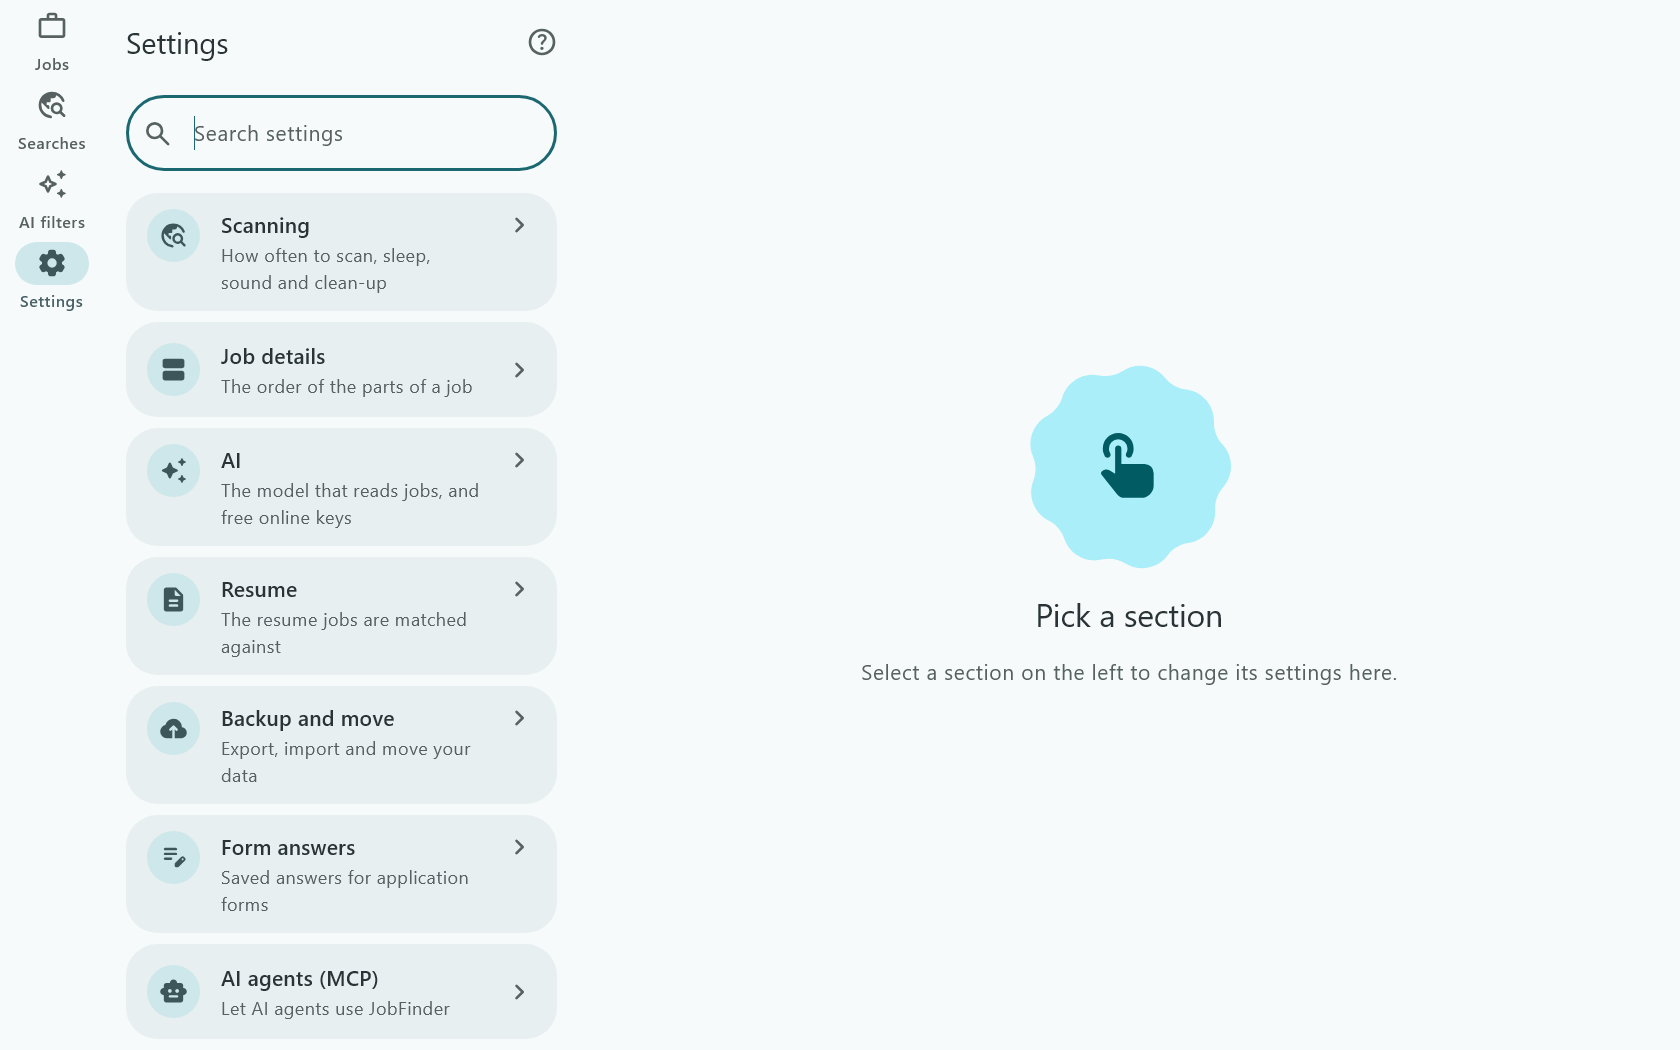
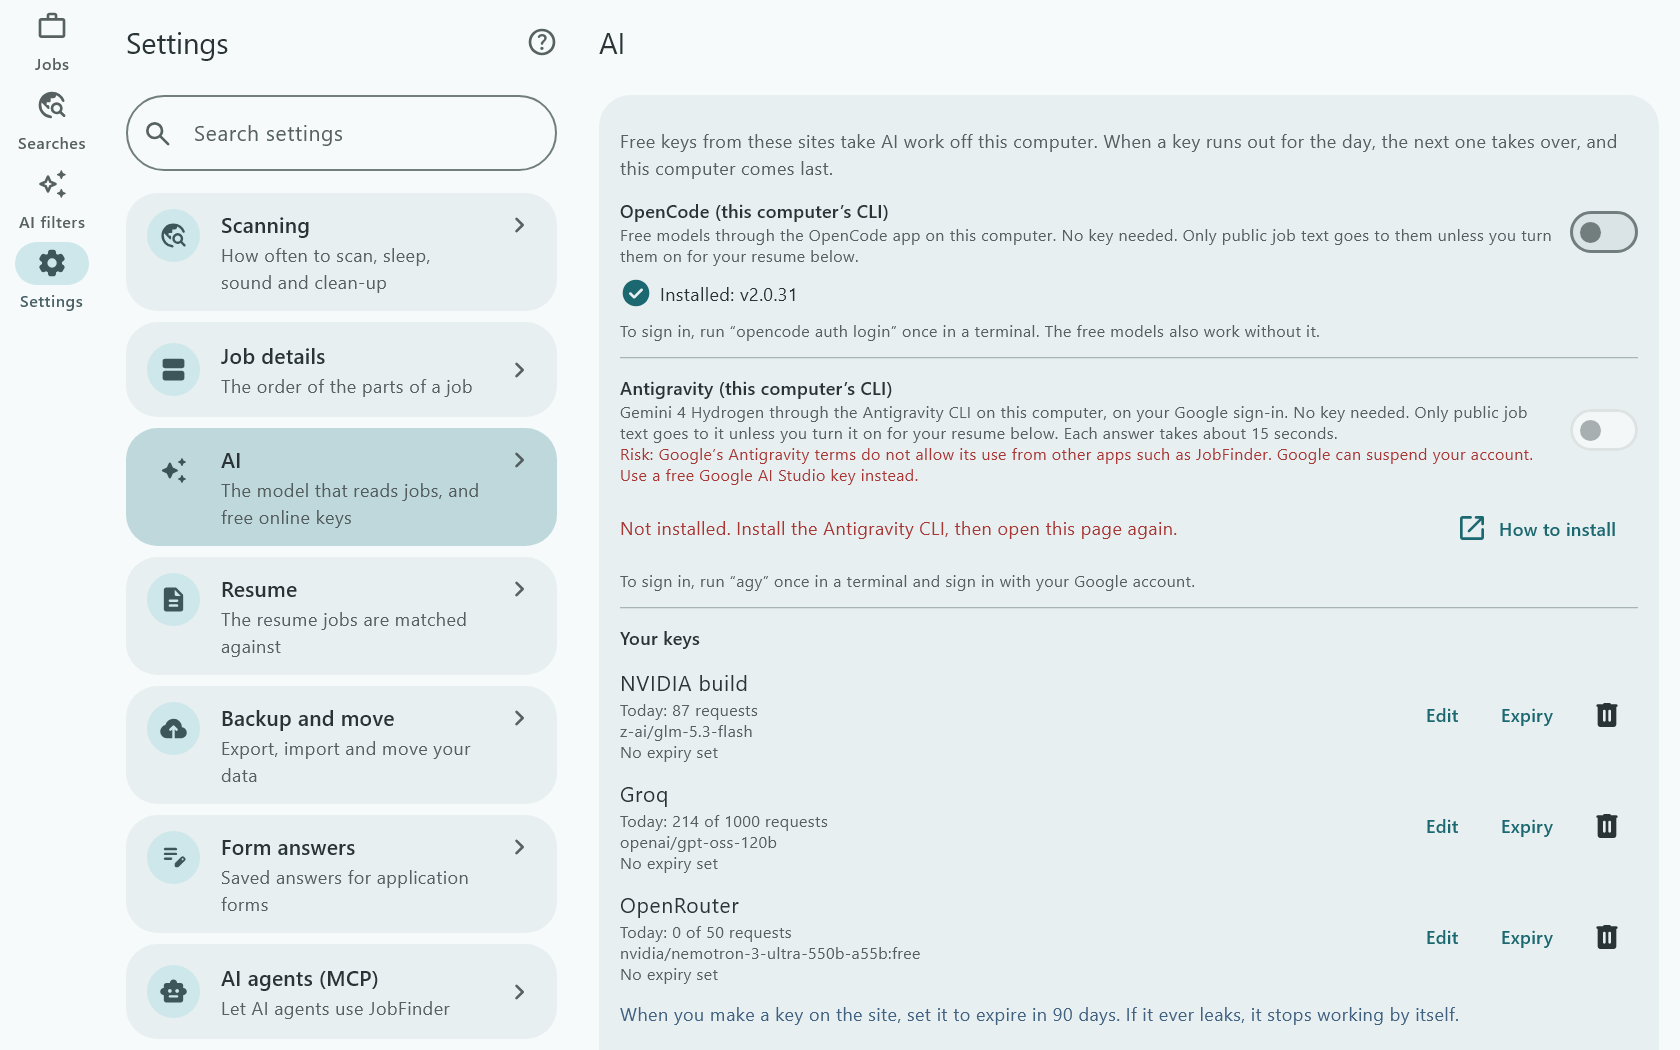
docs(store): Microsoft Store keywords, trademark wording, certification and AI notes

diff --git a/docs/store/listing.md b/docs/store/listing.md
@@ -29,7 +29,12 @@ Store listing uses the same URL. It goes live only after the site repo
 ## Product declarations
 
 - Tick **This product incorporates generative AI features** (ATS reviews, resume edits and form
-  answers are written by an AI model).
+  answers are written by an AI model). If the form asks for details, or in Notes for certification:
+  "Prompts are controlled by the user: the AI filter and AI instructions are the user's own words, and
+  each AI task works only on the user's jobs and resume. AI output is shown as an editable
+  suggestion (ATS review, resume edits, form answers); nothing is applied, sent or submitted without
+  the user. The default model runs locally (Ollama); online models are used only with the user's own
+  keys."
 - Leave "allows purchases outside the Store commerce system" unticked (the app sells nothing).
 - Leave the accessibility declaration unticked unless the Narrator/High Contrast checks are done.
 - Leave "install to alternate drives" and "OneDrive backups" at their defaults (checked).
@@ -38,11 +43,11 @@ Store listing uses the same URL. It goes live only after the site repo
 
 ## Short description (≤ 270 chars recommended)
 
-Finds new jobs from your saved LinkedIn, Indeed, Glassdoor and other job board searches as soon as they are posted, filters out the ones you don't want with AI, and scores your resume against each job. No account; your data stays on your PC.
+Finds new jobs from your saved job board searches as soon as they are posted (works with LinkedIn, Indeed, Glassdoor and more), filters out the ones you don't want with AI, and scores your resume against each job. No account; your data stays on your PC.
 
 ## Description (plain text, ≤ 10,000 chars, no URLs)
 
-JobFinder checks your saved job searches on LinkedIn, Indeed, Glassdoor and other job boards, and shows you the new jobs as soon as they are posted, so you can be one of the first to apply. A local AI model reads each new job, filters out the ones you do not want, and scores how well your resume matches the rest.
+JobFinder checks your saved searches on the job boards you use, and shows you the new jobs as soon as they are posted, so you can be one of the first to apply. A local AI model reads each new job, filters out the ones you do not want, and scores how well your resume matches the rest.
 
 There is no account and no server. Your searches, jobs, resume and notes stay on your computer.
 
@@ -74,7 +79,7 @@ JobFinder does not apply to jobs for you. It finds them early; you apply yoursel
 
 ## Product features (≤ 20, each ≤ 200 chars, no bullets)
 
-1. Checks your saved searches on LinkedIn, Indeed, Glassdoor, Naukri, Dice and more, every hour to once a day
+1. Checks your saved job board searches every hour to once a day; works with LinkedIn, Indeed, Glassdoor, Naukri, Dice and more
 2. Shows new jobs as soon as they are posted, with a notification
 3. AI filter: describe the jobs to skip in plain words, and see why each job was filtered out
 4. ATS review for every job: match score, found and missing keywords, and the top fixes
@@ -89,8 +94,8 @@ JobFinder does not apply to jobs for you. It finds them early; you apply yoursel
 
 ## Keywords (≤ 7, each ≤ 40 chars, ≤ 21 words in total)
 
-job search · job alerts · ATS resume checker · resume match · LinkedIn jobs · job tracker · AI job filter
-(7 terms, 16 words)
+job search · job alerts · ATS resume checker · resume match · job board alerts · job tracker · AI job filter
+(7 terms, 17 words; job board names appear only in "works with" wording, never as keywords)
 
 ## What's new in this version
 
@@ -106,8 +111,8 @@ Folder `docs/store/screenshots/`, in this order, with these captions (≤ 200 ch
 4. `04-improve.png`: Improve your resume for this job with exact before-and-after edits
 5. `05-searches.png`: Your saved searches on any job board
 6. `06-ai-filters.png`: Describe the jobs to skip in plain words
-7. `07-free-ai.png`: Free online AI keys, used in the order you choose
-8. `08-agents.png`: Let Claude Code, Gemini CLI or Codex set up JobFinder for you
+7. `07-free-ai.png`: Free AI: tools on your computer or free online keys, used in the order you choose
+8. `08-agents.png`: Let Claude Code, Gemini CLI, Codex or Cursor set up JobFinder for you
 
 They were rendered with the app's own `demoTour` on its built-in sample data (no personal data),
 from the same code as the 0.0.60 package. Regenerate with

diff --git a/docs/store/restricted-capabilities.md b/docs/store/restricted-capabilities.md
@@ -1,5 +1,21 @@
 # JobFinder: restricted capabilities for Store certification
 
+## Chosen plan (decided 2026-11-27)
+
+1. **Submit with `unvirtualizedResources`** (this package as built). It keeps the shared data folder
+   with the MSI and the browser extension's native messaging, and needs no code change.
+2. **If certification rejects it:** reply once in Partner Center with the native messaging reason
+   below. If it is rejected again, ship a **virtualized** build:
+   - remove `unvirtualizedResources` and the two `desktop6` lines, bump the version;
+   - add the one-time first-run copy of `%LOCALAPPDATA%\jobfinder-data` into the package's folder;
+   - for the extension, use **option b**: Settings → Browser extension shows the two `reg add`
+     commands (and writes the host manifest outside the package) for the user to run once. It needs
+     the least code, adds no extra prompts or host permissions, and leaves the Chrome Web Store
+     listing unchanged.
+3. **Keep the MSI** on GitHub Releases as the full-featured download in every case.
+
+Options a and c below stay as later improvements, not part of the plan.
+
 The package (`desktopCMP/msix/AppxManifest.xml`) declares two restricted capabilities. After the
 `.msix` is uploaded, Partner Center asks why each is needed (Submission options → Restricted
 capabilities). Paste the text below; it also fits in "Notes for certification".

diff --git a/docs/store/partner-center-checklist.md b/docs/store/partner-center-checklist.md
@@ -38,8 +38,13 @@ In Partner Center → Apps and games → JobFinderApp → **Start your submissio
    - [ ] Restricted capabilities: paste the runFullTrust and unvirtualizedResources texts.
    - [ ] Notes for certification: "No account or sign-in is needed. The app works offline; job
      searches need a job board link (for example a LinkedIn jobs search URL) and optionally the
-     user's own job board sign-in. The local AI model (Ollama) is downloaded on first run and is
-     optional for reviewing the UI."
+     user's own job board sign-in. The app reads job boards only through the user's own sign-ins
+     in its built-in browser, the same pages the user sees when searching; it has no server and
+     does not collect or resell job board data. The local AI model (Ollama) is downloaded on first
+     run and is optional for reviewing the UI. Generative AI: prompts are user-controlled (the AI
+     filter and instructions are the user's own words) and every AI output is an editable
+     suggestion that is never applied or submitted without the user. The Android app and the
+     JobFinder Helper browser extension are optional companions; reviewers do not need either."
 7. [ ] **Submit for certification.** Expect 1–3 business days. If certification rejects
    unvirtualizedResources, follow the fallback in `restricted-capabilities.md` and tell me.
 
